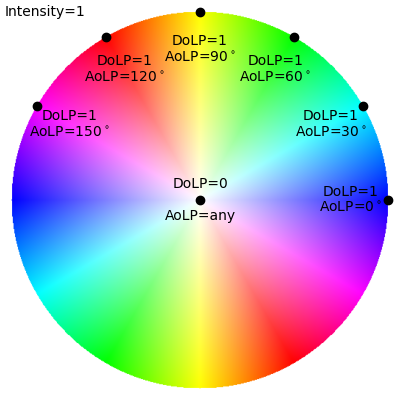
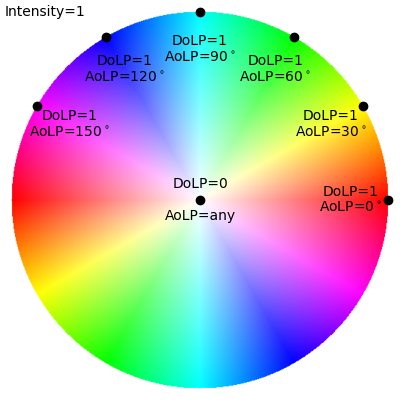
cv2.COLOR_HSV2BGR -> cv2.COLOR_HSV2RGB

diff --git a/plot_color_ring.py b/plot_color_ring.py
@@ -17,7 +17,7 @@ saturation = np.sqrt(X**2 + Y**2)
 saturation[saturation > 1] = 0
 value = np.ones_like(X)
 hsv = cv2.merge([hue, saturation, value])
-img = cv2.cvtColor(hsv, cv2.COLOR_HSV2BGR)
+img = cv2.cvtColor(hsv, cv2.COLOR_HSV2RGB)
 img = cv2.copyMakeBorder(img, pad, pad, pad, pad, cv2.BORDER_CONSTANT, value=(1, 1, 1))
 
 plt.figure(figsize=(4, 4), dpi=100, constrained_layout=True)

diff --git a/polar_viz.py b/polar_viz.py
@@ -40,7 +40,7 @@ def polar_to_hsv(img):
     s = img_dolp # [0, 1)
     v = img_intensity # [0, 1)
     hsv = cv2.merge([h, s, v])
-    img_vis = cv2.cvtColor(hsv, cv2.COLOR_HSV2BGR)
+    img_vis = cv2.cvtColor(hsv, cv2.COLOR_HSV2RGB)
     img_vis = (img_vis * 255).astype(np.uint8)
 
     return img_vis
